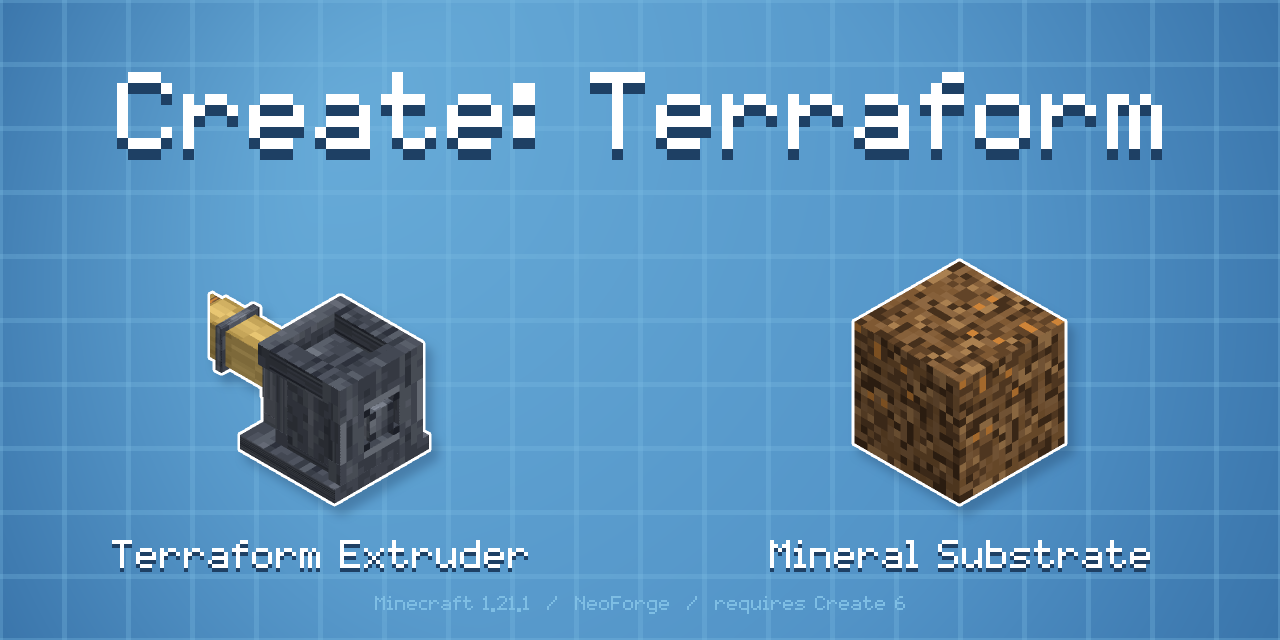
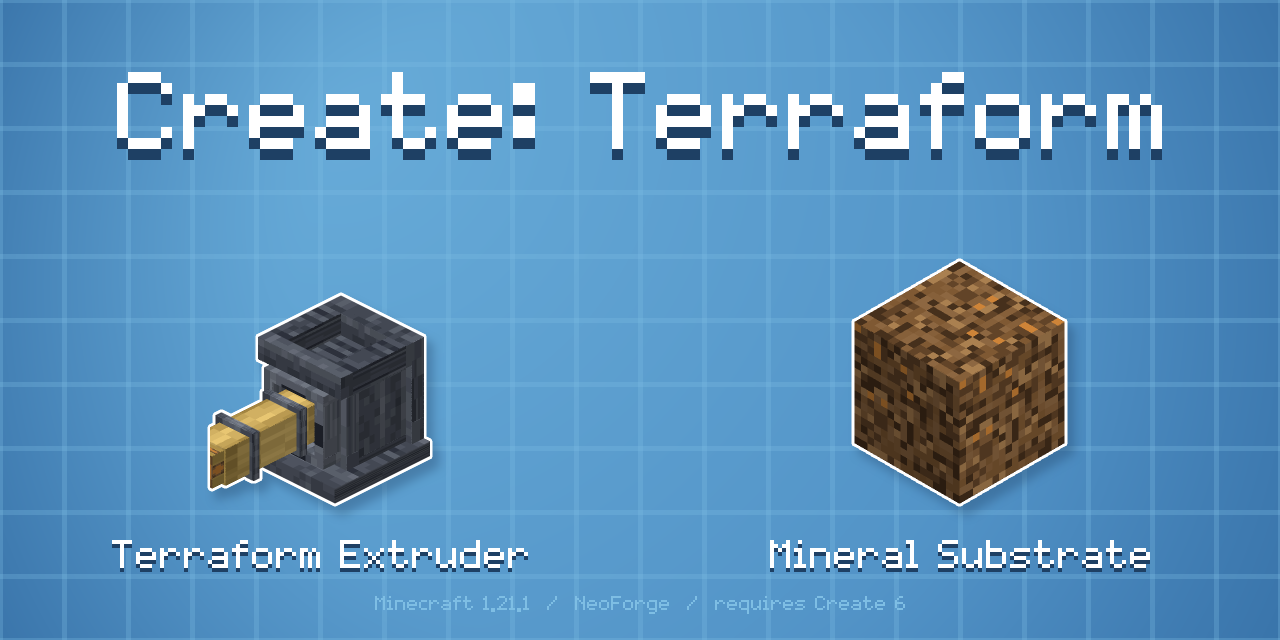
Rotate what the models say to rotate, and face the front
Two faults, one in a tool and one shipped.

The renderer had no per-element rotation at all. Models lean on it far
more than they look like they do -- Create's Mechanical Pump has
forty-nine rotated elements and its Mechanical Press fifteen -- and a
renderer without it does not fail, it quietly draws every one of them
square. That is why the presses in the recipe sheet had no shaft on them
and the pumps were boxes. A rotated face keeps the shade of the direction
it was declared in rather than the one it now points, which is what the
game does too.

The other is in the jar. An item model inherits its GUI rotation from
minecraft:block/block, which is [30, 225, 0] and shows a block's north
and east faces. This casing is authored facing south, so the Extruder's
inventory icon was the back of the machine: a plain plate with a shaft
socket and no barrel in sight. The item model now overrides it to
[30, 315, 0], which brings the front round.

The page art reads that rotation off the model rather than naming a
camera of its own, so a picture of an item and the item in an inventory
cannot disagree about which side of it faces the viewer.

Claude-Session: https://claude.ai/code/session_0132JF9mQgLwheJRjZxYX5xh

Changed region(s): [[0.1562, 0.4375, 0.3438, 0.7812]]

diff --git a/tools/render_block_model.py b/tools/render_block_model.py
@@ -269,26 +269,61 @@ class View:
 # obvious on the block: the north face's u runs *backwards* along x, and every
 # vertical face's v runs downwards from the top of the sheet, which is why "the
 # counter's band is rows 4 and 5" is a fact about the element's y and not a choice.
+def spun(point, spin):
+    """
+    Wraps a face's point function in Minecraft's per-element rotation.
+
+    Up to forty-five degrees about one axis through a named origin, which models lean on far more
+    than they look like they do: Create's Mechanical Pump has forty-nine rotated elements and its
+    Mechanical Press fifteen. A renderer that ignores this does not fail, it quietly draws every one
+    of them square, which is how a press comes out looking like a furnace.
+
+    The face keeps the shade of the direction it was *declared* in rather than of the direction it
+    now points, because that is what the game does too.
+    """
+    origin_x, origin_y, origin_z = spin.get('origin', (8.0, 8.0, 8.0))
+    axis = spin.get('axis', 'y')
+    angle = math.radians(spin.get('angle', 0.0))
+    cosine, sine = math.cos(angle), math.sin(angle)
+    # `rescale` stretches the two axes across the rotation so a tilted element still meets its
+    # neighbours, which is what it is for on a fence post or a lever.
+    stretch = (1.0 / math.cos(angle)) if (spin.get('rescale') and angle) else 1.0
+
+    def turned(s, t):
+        x, y, z = point(s, t)
+        dx, dy, dz = x - origin_x, y - origin_y, z - origin_z
+        if axis == 'x':
+            dy, dz = (dy * cosine - dz * sine) * stretch, (dy * sine + dz * cosine) * stretch
+        elif axis == 'z':
+            dx, dy = (dx * cosine - dy * sine) * stretch, (dx * sine + dy * cosine) * stretch
+        else:
+            dx, dz = (dx * cosine + dz * sine) * stretch, (-dx * sine + dz * cosine) * stretch
+        return origin_x + dx, origin_y + dy, origin_z + dz
+
+    return turned
+
+
 def face_geometry(box, name):
     (x1, y1, z1), (x2, y2, z2) = box['from'], box['to']
+    spin = box.get('rotation')
     if name == 'north':
-        return (lambda s, t: (x2 + s * (x1 - x2), y2 + t * (y1 - y2), z1),
-                (16 - x2, 16 - y2, 16 - x1, 16 - y1))
+        point, uv = lambda s, t: (x2 + s * (x1 - x2), y2 + t * (y1 - y2), z1), (16 - x2, 16 - y2, 16 - x1, 16 - y1)
+        return (spun(point, spin) if spin else point), uv
     if name == 'south':
-        return (lambda s, t: (x1 + s * (x2 - x1), y2 + t * (y1 - y2), z2),
-                (x1, 16 - y2, x2, 16 - y1))
+        point, uv = lambda s, t: (x1 + s * (x2 - x1), y2 + t * (y1 - y2), z2), (x1, 16 - y2, x2, 16 - y1)
+        return (spun(point, spin) if spin else point), uv
     if name == 'west':
-        return (lambda s, t: (x1, y2 + t * (y1 - y2), z1 + s * (z2 - z1)),
-                (z1, 16 - y2, z2, 16 - y1))
+        point, uv = lambda s, t: (x1, y2 + t * (y1 - y2), z1 + s * (z2 - z1)), (z1, 16 - y2, z2, 16 - y1)
+        return (spun(point, spin) if spin else point), uv
     if name == 'east':
-        return (lambda s, t: (x2, y2 + t * (y1 - y2), z2 + s * (z1 - z2)),
-                (16 - z2, 16 - y2, 16 - z1, 16 - y1))
+        point, uv = lambda s, t: (x2, y2 + t * (y1 - y2), z2 + s * (z1 - z2)), (16 - z2, 16 - y2, 16 - z1, 16 - y1)
+        return (spun(point, spin) if spin else point), uv
     if name == 'up':
-        return (lambda s, t: (x1 + s * (x2 - x1), y2, z1 + t * (z2 - z1)),
-                (x1, z1, x2, z2))
+        point, uv = lambda s, t: (x1 + s * (x2 - x1), y2, z1 + t * (z2 - z1)), (x1, z1, x2, z2)
+        return (spun(point, spin) if spin else point), uv
     if name == 'down':
-        return (lambda s, t: (x1 + s * (x2 - x1), y1, z2 + t * (z1 - z2)),
-                (x1, 16 - z2, x2, 16 - z1))
+        point, uv = lambda s, t: (x1 + s * (x2 - x1), y1, z2 + t * (z1 - z2)), (x1, 16 - z2, x2, 16 - z1)
+        return (spun(point, spin) if spin else point), uv
     raise ValueError(name)
 
 

diff --git a/tools/generate_page_art.py b/tools/generate_page_art.py
@@ -251,7 +251,8 @@ def subject_art(subject, mass, box):
         # square, which is the one thing generate_logo.py exists to avoid as well.
         return sprite(subject['sprite'], max(1, int(scale)))
 
-    camera = render_block_model.ANGLES['iso']
+    with open(subject['model']) as handle:
+        camera = camera_for(gui_rotation(json.load(handle)))
     span_width, span_height = model_extent(subject['model'], camera)
     size = min(mass / math.sqrt(span_width * span_height),
                limit_width / span_width, limit_height / span_height)
@@ -606,7 +607,7 @@ class Sprites:
             sheets[value] = pixels
 
         model = {'textures': textures, 'elements': elements}
-        camera = render_block_model.ANGLES['iso']
+        camera = camera_for(gui_rotation(chain[0]))
         span_width, span_height = extent_of(model, camera)
         return render_block_model.render_model(
             model, int(round(min(size / span_width, size / span_height))),
@@ -654,7 +655,8 @@ class Sprites:
         if not os.path.exists(local_model):
             local_model = os.path.join(MODELS, name + '.json')
         if namespace == 'createterraform' and os.path.exists(local_model):
-            camera = render_block_model.ANGLES['iso']
+            with open(local_model) as handle:
+                camera = camera_for(gui_rotation(json.load(handle)))
             span_width, span_height = model_extent(local_model, camera)
             art = render_block_model.render(
                 local_model, int(round(min(size / span_width, size / span_height))), None, camera)
@@ -690,6 +692,34 @@ class Sprites:
 
         self.cache[identifier] = (size, art)
         return art
+
+
+#: What minecraft:block/block hands every block that does not override it.
+DEFAULT_GUI_ROTATION = (30.0, 225.0, 0.0)
+
+
+def camera_for(rotation):
+    """
+    The camera direction that reproduces a model's GUI rotation.
+
+    A display transform turns the model and looks at it down -Z; an orthographic camera leaves the
+    model where it is and moves instead. Same picture, and this is the conversion.
+
+    It matters because a model may override the rotation, and this mod's does: the casing is
+    authored facing south, and vanilla's default shows a block's north and east faces, so the
+    Extruder's icon was the back of the machine. Reading the model's own value rather than naming a
+    camera here is what keeps the page and the inventory showing the same side of it.
+    """
+    pitch, yaw = math.radians(rotation[0]), math.radians(rotation[1])
+    return (-math.sin(yaw), math.tan(pitch) if pitch else 0.0, math.cos(yaw))
+
+
+def gui_rotation(model):
+    """A model's GUI rotation, or the one its vanilla parent would have given it."""
+    display = (model or {}).get('display') or {}
+    gui = display.get('gui') or {}
+    rotation = gui.get('rotation')
+    return tuple(rotation) if rotation else DEFAULT_GUI_ROTATION
 
 
 def cube_model(reference):

diff --git a/tools/generate_models.py b/tools/generate_models.py
@@ -386,10 +386,16 @@ def main():
                                     for n, f in one['faces'].items()}})
 
     shell = to_model(casing, used, '')
-    item = {'__comment': 'The item shows the machine complete -- casing, gears and ram at rest. '
+    item = {'__comment': 'The item shows the machine complete -- casing, spindle and barrel at rest. '
                          'Generated by tools/generate_models.py from the same sources as the block '
                          'model and the partials, so it cannot drift out of step.',
             'parent': 'minecraft:block/block',
+            # Turned to face the viewer. minecraft:block/block hands down a GUI rotation of
+            # [30, 225, 0], which shows a block's NORTH and EAST faces -- and this casing is
+            # authored facing south, so the inventory icon was the back of the machine: a plain
+            # plate with a shaft socket, and no barrel. 315 brings the south face round instead.
+            'display': {'gui': {'rotation': [30, 315, 0], 'translation': [0, 0, 0],
+                                'scale': [0.625, 0.625, 0.625]}},
             'textures': dict(shell['textures'],
                              **{name: TEX[name] for p in (barrel, spindle) for b in p
                                 for name in (b['__tex'], b.get('__tex_end')) if name}),

diff --git a/CLAUDE.md b/CLAUDE.md
@@ -259,6 +259,16 @@ fuel bill.
 - **Dither at a boundary, never over a surface.** The style guide's words are "the overuse of
   dithering where the transition starts, covering too much surface area". A pass that blanketed
   `blend()` over every face put a checkerboard on the whole machine.
+- **The renderer applies per-element rotation, and has to.** Models lean on it far more than they
+  look like they do: Create's Mechanical Pump has forty-nine rotated elements and its Mechanical
+  Press fifteen. A renderer without it does not fail, it quietly draws every one of them square, so
+  a press comes out looking like a furnace. A rotated face keeps the shade of the direction it was
+  *declared* in rather than the one it now points, which is what the game does too.
+- **An item's icon is drawn from its model's own `display.gui` rotation**, not from a camera chosen
+  here, so a picture of an item and the item in an inventory cannot disagree. `minecraft:block/block`
+  hands down `[30, 225, 0]`, which shows a block's **north and east** faces. This casing is authored
+  facing **south**, so the Extruder's inventory icon was the back of the machine: a plain plate with
+  a shaft socket and no barrel in sight. The item model overrides it to `[30, 315, 0]`.
 - **Models are generated, not hand-authored.** `tools/generate_models.py` drops every face that is
   buried inside another box, which is the only practical defence against z-fighting across a dozen
   boxes — the shimmering checkerboard only shows up once the block is in the world. Do not hand-edit
